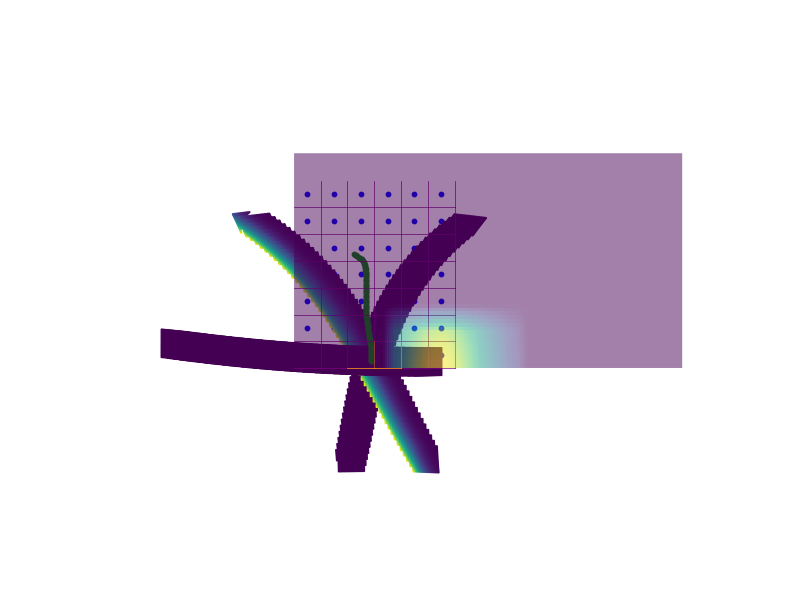
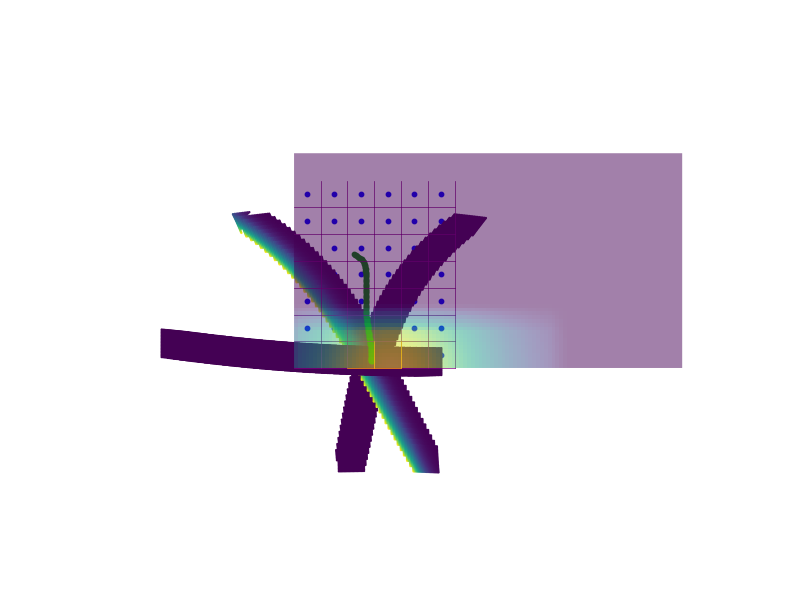
fix the fucking plotting

Changed region(s): [[0.3438, 0.51, 0.5938, 0.63], [0.625, 0.54, 0.6875, 0.63]]

diff --git a/code/eval_true.py b/code/eval_true.py
@@ -143,7 +143,7 @@ if __name__ == "__main__":
             stpx = 0.01
             stpy = stpx
             x, y = np.mgrid[slice(-test_scene.height/2, test_scene.height/2 + stpy, stpy),
-                            slice(-test_scene.width, test_scene.width + stpx, stpx)]
+                            slice(-test_scene.width/2, test_scene.width/2 + stpx, stpx)]
 
             pts = np.array([x.flatten(), y.flatten()])
             vals = lin_term[-1](pts).reshape(x.shape)
